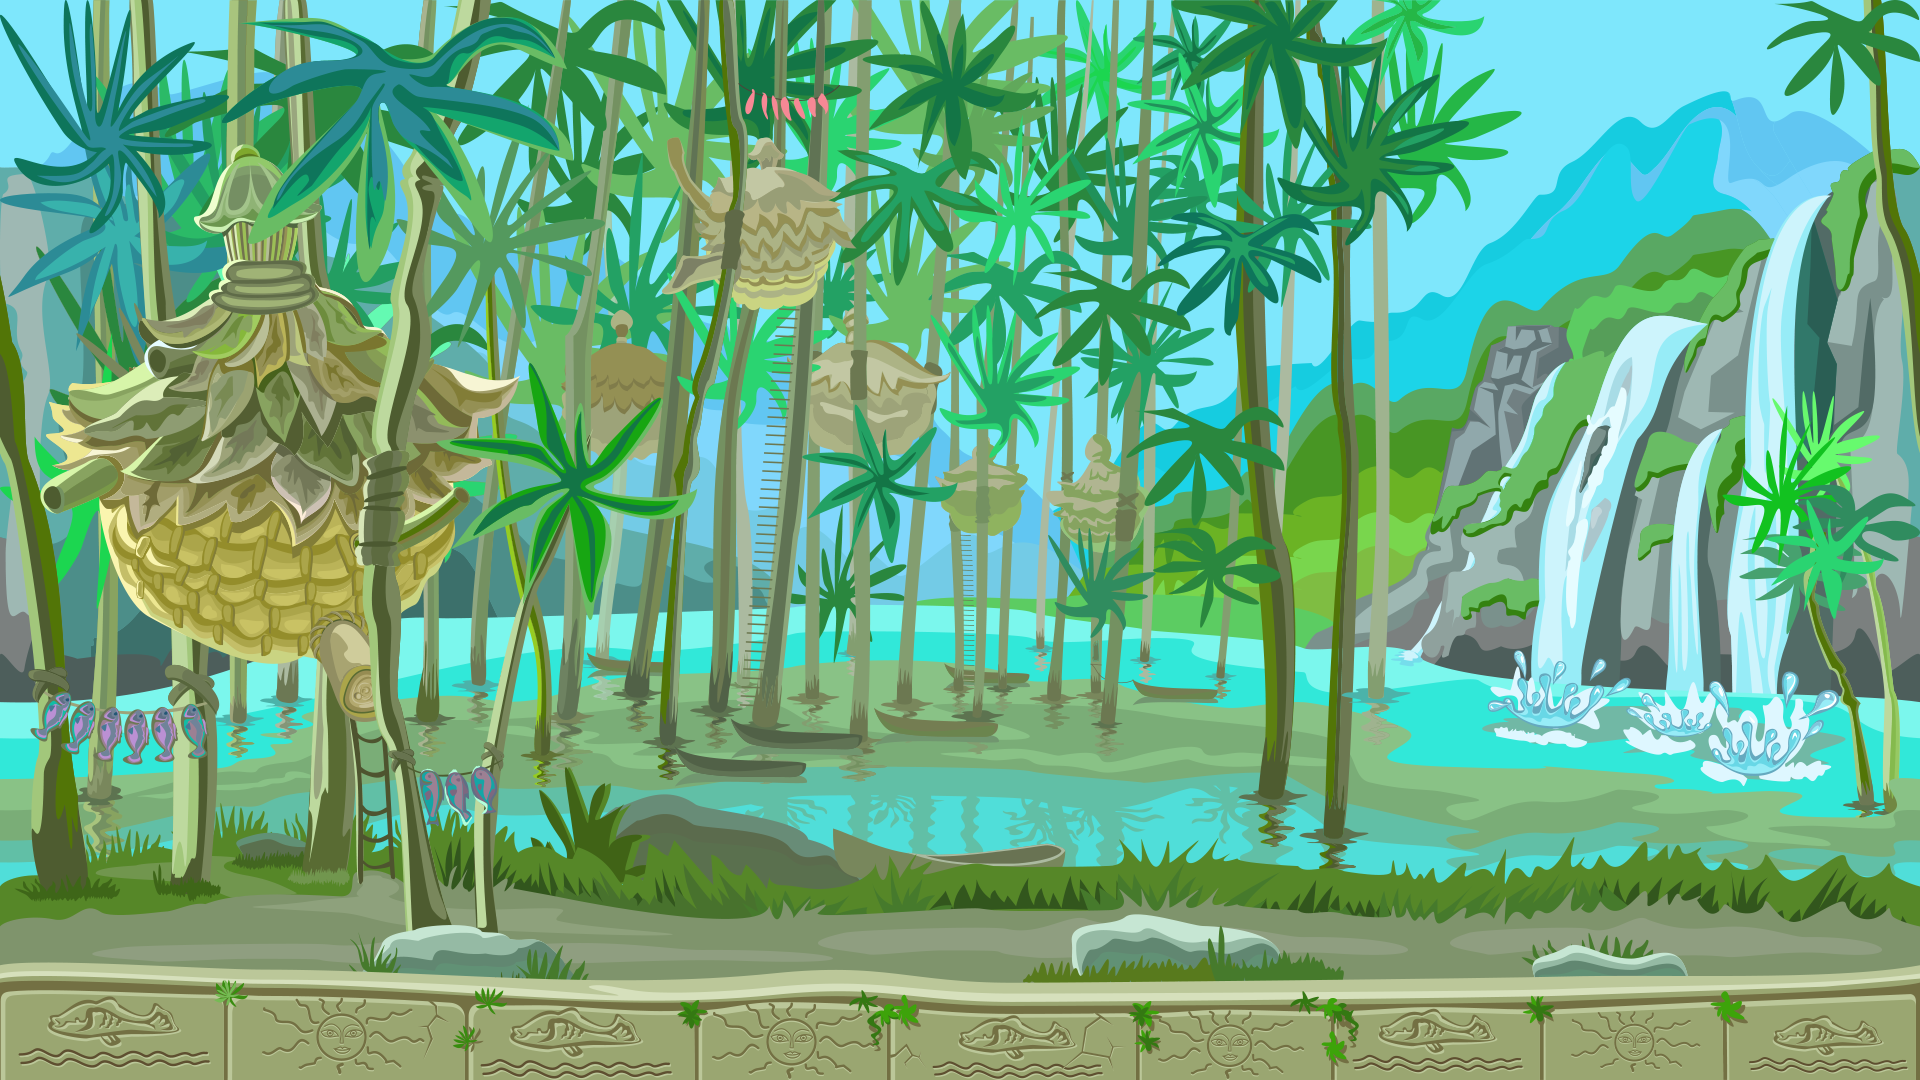
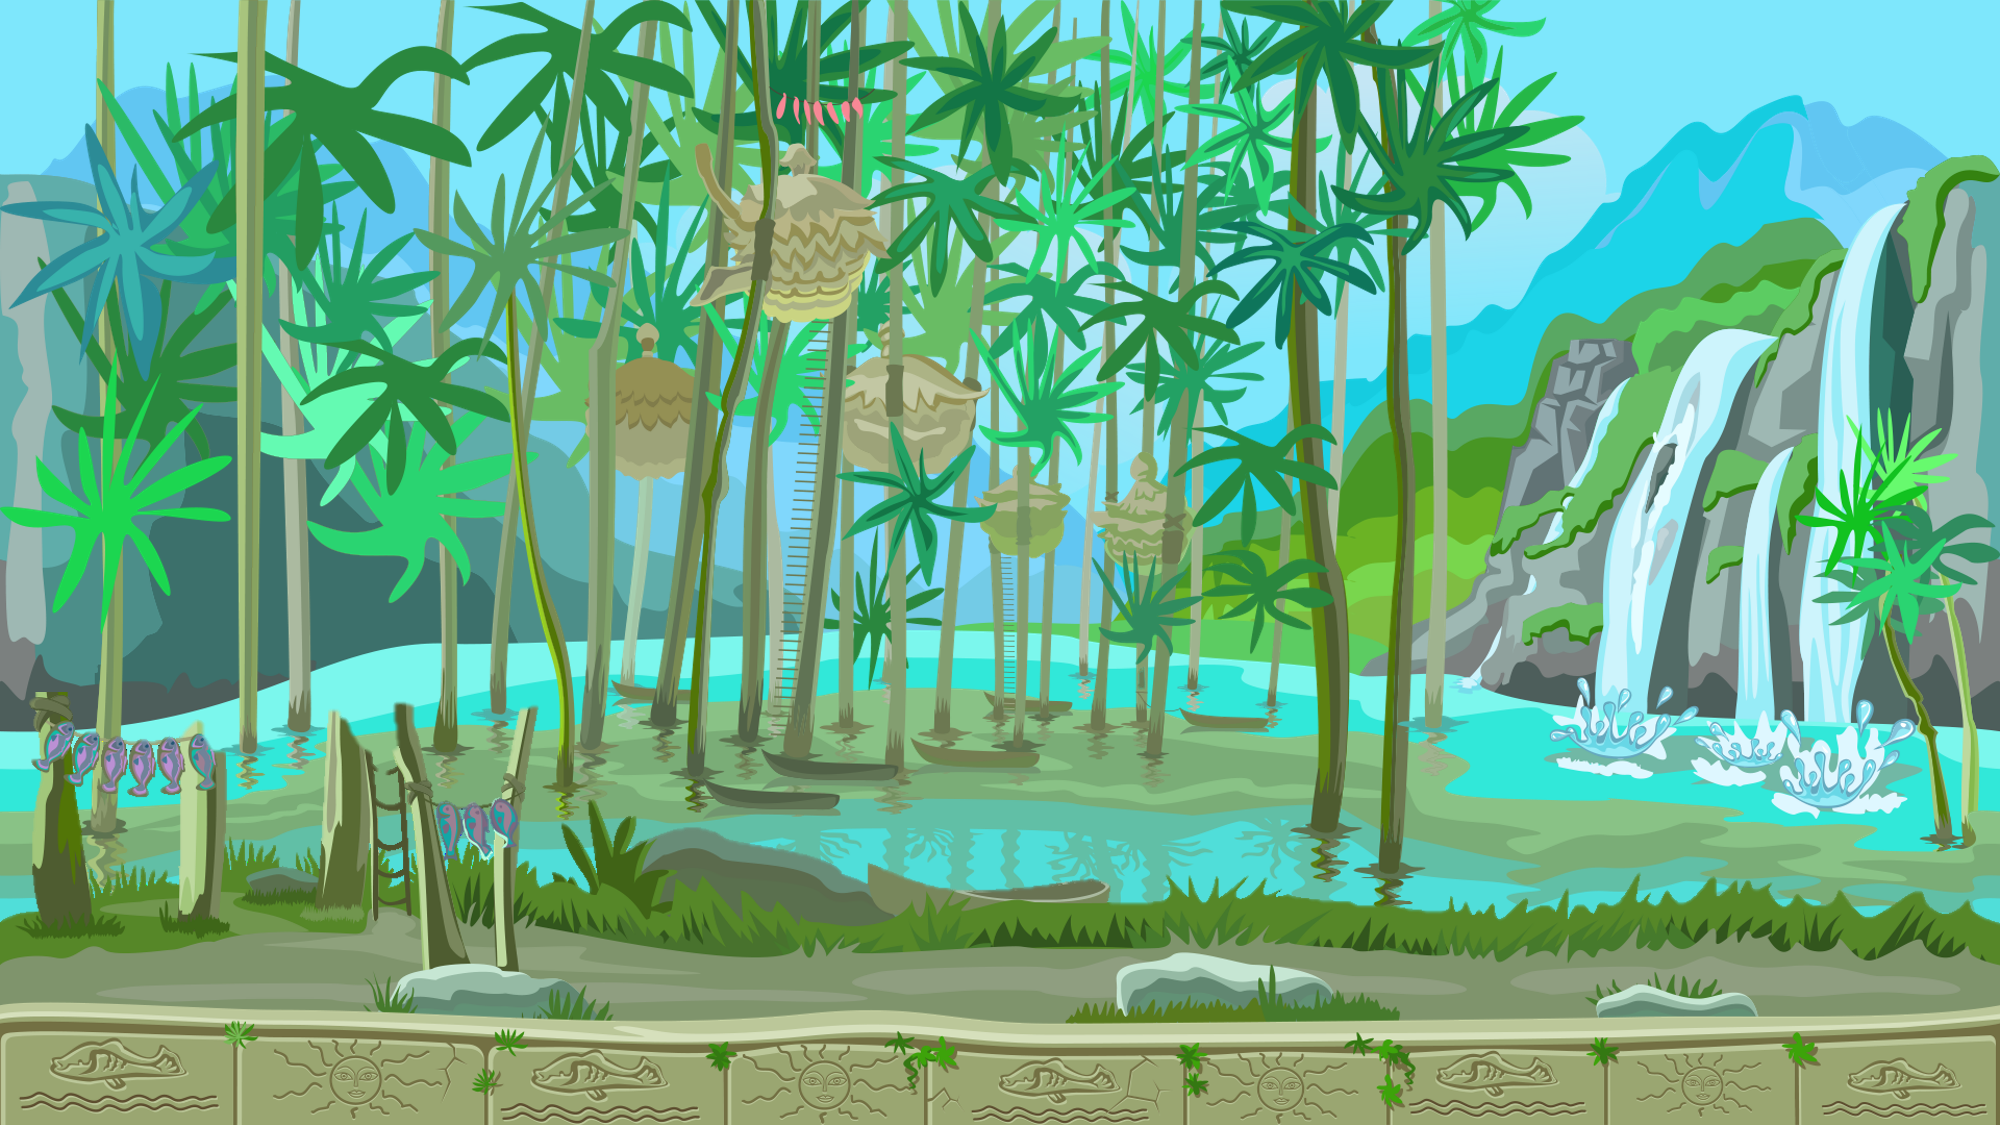
adding new backgrounds

diff --git a/src/background.hpp b/src/background.hpp
@@ -5,29 +5,31 @@
 class Background
 {
 
-
-    sf::Texture backgroundTexture;
+    String picture[4]= {"../Assets/Backgrounds/1/background.png", "../Assets/Backgrounds/2/background.png", "../Assets/Backgrounds/3/background.png", "../Assets/Backgrounds/4/background.png"};
+    int n=0;
+    sf::Texture Image1;
+    sf::Texture Image2;
     sf::Sprite background1;
     sf::Sprite background2;
 
     public:
 
-    Background(String imagePath, sf::RenderWindow& window) {
+    Background(sf::RenderWindow& window) {
         
-        backgroundTexture.loadFromFile(imagePath);
-        background1.setTexture(backgroundTexture);
-        background2.setTexture(backgroundTexture);
-        sf::Vector2u textureSize = backgroundTexture.getSize();
+        Image1.loadFromFile(picture[n]);
+        Image2.loadFromFile(picture[n]);
+        background1.setTexture(Image1);
+        background2.setTexture(Image2);
+        sf::Vector2u textureSize = Image1.getSize();
         sf::Vector2u windowSize = window.getSize();
         background1.setScale((float)windowSize.x / textureSize.x, (float)windowSize.y / textureSize.y);
         background2.setScale((float)windowSize.x / textureSize.x, (float)windowSize.y / textureSize.y);
         background1.setPosition(0, 0);
         background2.setPosition(windowSize.x, 0);
-
         drawBackground(window);
     }
 
-    void updateBackground(sf::RenderWindow& window) {
+    void moveBackground(sf::RenderWindow& window) {
         int window_width = window.getSize().x;
         background1.move(-speed, 0);
         background2.move(-speed, 0);
@@ -37,6 +39,22 @@ class Background
         if (background2.getPosition().x <= -window_width){
             background2.setPosition(window_width, 0);
             background1.setPosition(0, 0);}
+    }
+
+    void changeBackgroundASAP(sf::RenderWindow& window) {
+        n++; if (n>3) n=0;
+    }
+
+    void changeBackground(sf::RenderWindow& window) {
+        Image1.loadFromFile(picture[n]);
+        background1.setTexture(Image1);
+        background2.setTexture(Image2);
+        sf::Vector2u textureSize = Image1.getSize();
+        sf::Vector2u windowSize = window.getSize();
+        background1.setScale((float)windowSize.x / textureSize.x, (float)windowSize.y / textureSize.y);
+        background2.setScale((float)windowSize.x / textureSize.x, (float)windowSize.y / textureSize.y);
+        background1.setPosition(0, 0);
+        background2.setPosition(windowSize.x, 0);
     }
 
     void drawBackground(sf::RenderWindow& window) {

diff --git a/src/main.cpp b/src/main.cpp
@@ -51,7 +51,7 @@ int main()
     int window_height = window.getSize().y;
 
     // INITIALIZE BACKGROUND
-    Background background("../Assets/Backgrounds/background.png", window);
+    Background background(window);
     Background menu("../Assets/Backgrounds/menunew.png", window);
 
     // INITIALIZE PLAYER
@@ -96,7 +96,7 @@ int main()
         speedUp();
 
         //UPDATE BACKGROUND
-        background.updateBackground(window);
+        background.moveBackground(window);
         window.clear();
         background.drawBackground(window);
 
